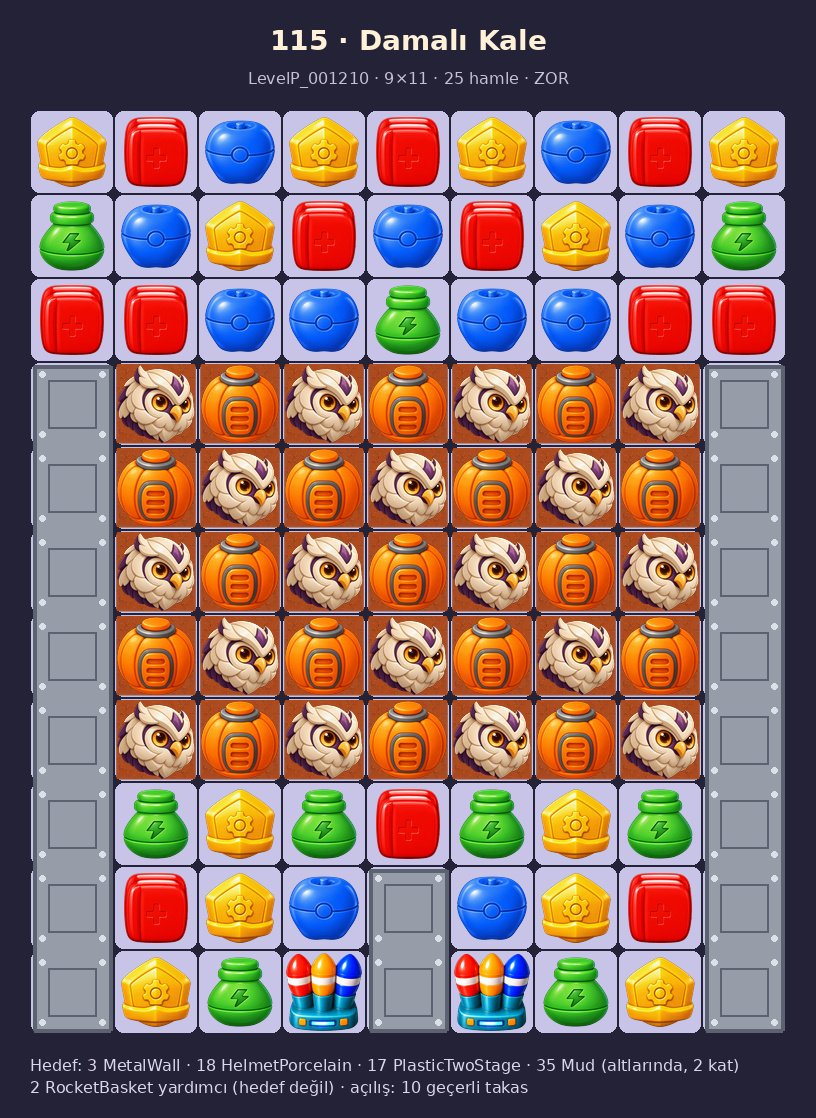
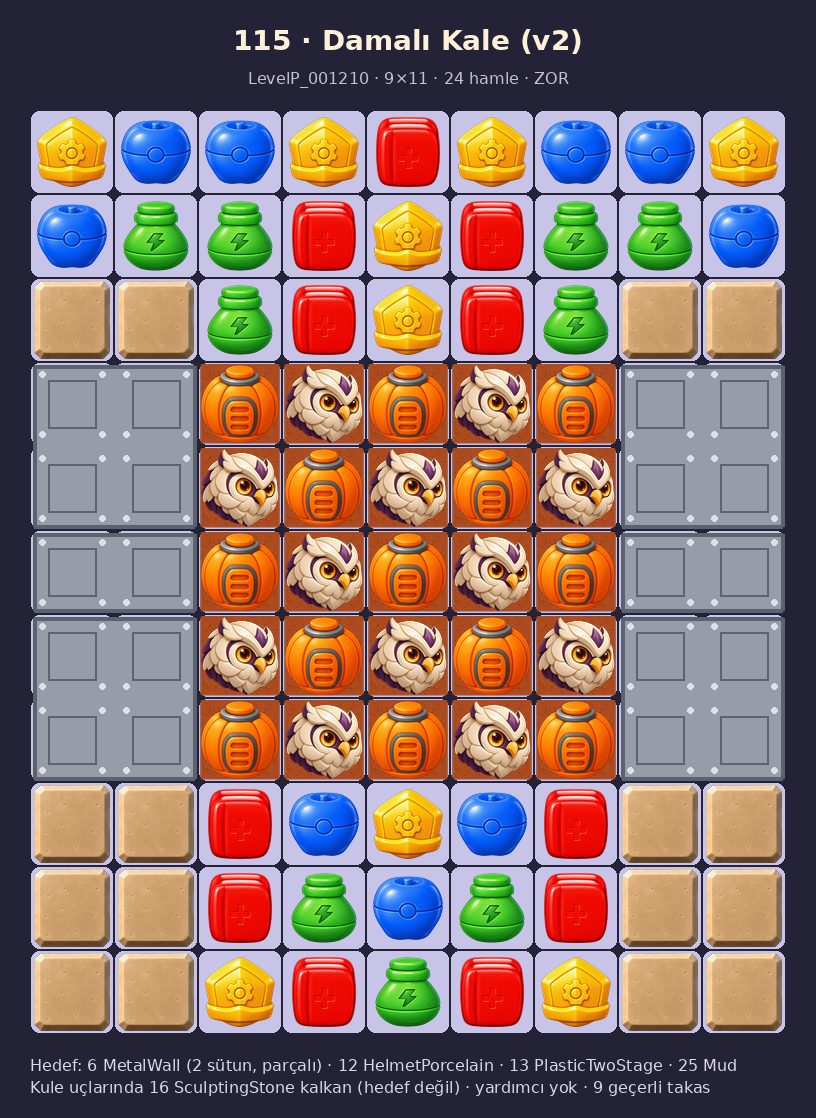
Make level 115 harder: thick fragmented MetalWall towers
v1 felt easy (walls broke from the open bottom area). v2: 2-column
MetalWall towers split into 3 pieces per side (6 goals), tower ends
shielded by SculptingStone, 5x5 checker over Mud, no RocketBaskets,
24 moves. Same asset GUID, so the catalog entry is unchanged.

Claude-Session: https://claude.ai/code/session_011SM6jAozhV5f6ndTXzk3GM

diff --git a/Docs/LevelDesign/Level115-Damali-Kale.md b/Docs/LevelDesign/Level115-Damali-Kale.md
@@ -1,35 +1,39 @@
-# Level 115 — Damalı Kale (zor)
+# Level 115 — Damalı Kale (zor, v2)
 
-`LevelCatalogPro` global 115 → `LevelP_001210.asset`. Zor normal level, tam 9×11 board, başlangıç ayarı 25 hamle. Çiçek/çim kullanılmadı.
+`LevelCatalogPro` global 115 → `LevelP_001210.asset`. Zor normal level, tam 9×11 board, başlangıç ayarı 24 hamle. Çiçek/çim kullanılmadı.
 
 ## Kompozisyon
 
-Ortada 7×5 dama: baykuş (HelmetPorcelain) ve turuncu (PlasticTwoStage) kareler; hepsinin altında iki katmanlı çamur. Yanlarda boydan boya MetalWall kuleler, altta orta sütunda kısa MetalWall; sütunun iki yanında RocketBasket.
+Ortada 5×5 dama: baykuş (HelmetPorcelain) ve turuncu (PlasticTwoStage) kareler; hepsinin altında iki katmanlı çamur. İki yanda **2 sütun genişliğinde, parçalı** MetalWall kuleleri (her yanda 2×2 + 2×1 + 2×2). Kulelerin üst ucu ve altı SculptingStone ile kapalı.
 
 ```text
 ooooooooo
 ooooooooo
-ooooooooo
-1HTHTHTH2
-1THTHTHT2
-1HTHTHTH2
-1THTHTHT2
-1HTHTHTH2
-1ooooooo2
-1ooo3ooo2
-1ook3koo2
+SSoooooSS
+11THTHT44
+11HTHTH44
+22THTHT55
+33HTHTH66
+33THTHT66
+SSoooooSS
+SSoooooSS
+SSoooooSS
 ```
 
-`o` normal taş, `H` HelmetPorcelain (30), `T` PlasticTwoStage (40), `k` RocketBasket (38), `1`/`2`/`3` MetalWall (56) parçaları (8, 8, 2 hücre). Dama hücrelerinde taban `obstacles[] = Mud (25)`, üst katman `stackedObstacles` kaydıdır (hareketli engel çamur üstünde).
+`o` normal taş, `H` HelmetPorcelain (30), `T` PlasticTwoStage (40) — ikisinin tabanı Mud (25), `S` SculptingStone (28, 3 vuruş, hedef değil), `1`–`6` MetalWall (56) parçaları.
 
-Önizleme: `Level115-Damali-Kale.png` (yerleşim şeması; çamur hücre zemininde gösterilir).
+Önizleme: `Level115-Damali-Kale.png`.
 
 ## Hedefler ve zorluk
 
-- 3 MetalWall, 18 HelmetPorcelain, 17 PlasticTwoStage, 35 Mud. Hücre başı 3–4 vuruş.
-- Dama yalnız üst ve alt sıradan açılır; hareketli engeller açıldıkça düşer, desen bozulur.
-- RocketBasket'ler hedef değildir; kale altından yardım verir. Duvarı/sepeti alta koymak üstten taş akışını açık bırakır.
+- 6 MetalWall, 12 HelmetPorcelain, 13 PlasticTwoStage, 25 Mud (4 hedef; HUD 4 sütun).
+- MetalWall'a başta yalnız kule uçlarındaki taş kalkanları kırarak ya da damayı yanlardan açarak ulaşılır. Ardışık vuruş kuralı nedeniyle her parçaya üst üste hamlelerde odaklanmak gerekir; parçalı yapı her parçayı ayrı iş yapar.
+- Yardımcı yok.
+
+## Revizyon
+
+v1 (7×5 dama, tek parça 1 sütunluk kuleler, 2 RocketBasket) kullanıcıya kolay geldi: duvar alt boşluktan kolay kırıldı. v2'de kuleler 2 sütun ve parçalı, uçları taşla korunuyor, roketler kaldırıldı.
 
 ## Statik kontrol
 
-Diziler, 3 duvar parçası/origin, 35 çamur tabanı + 35 üst katman kaydı, hedef adetleri ve katalog bağlantısı kontrol edildi. 44 açık taş sağ-sol simetrik sabitlendi; hazır üçlü/2×2 yok, 10 geçerli takas. Unity, bot, build veya simülasyon çalıştırılmadı; 25 hamle ilk tahmin.
+Diziler, 6 duvar parçası/origin, 25 çamur tabanı + 25 üst katman kaydı, hedef adetleri ve katalog bağlantısı (GUID korunarak) kontrol edildi. 38 açık taş sağ-sol simetrik ve bölgesel dengeli sabitlendi; hazır üçlü/2×2 yok, 9 geçerli takas (üst ve alt). Unity, bot, build veya simülasyon çalıştırılmadı.
